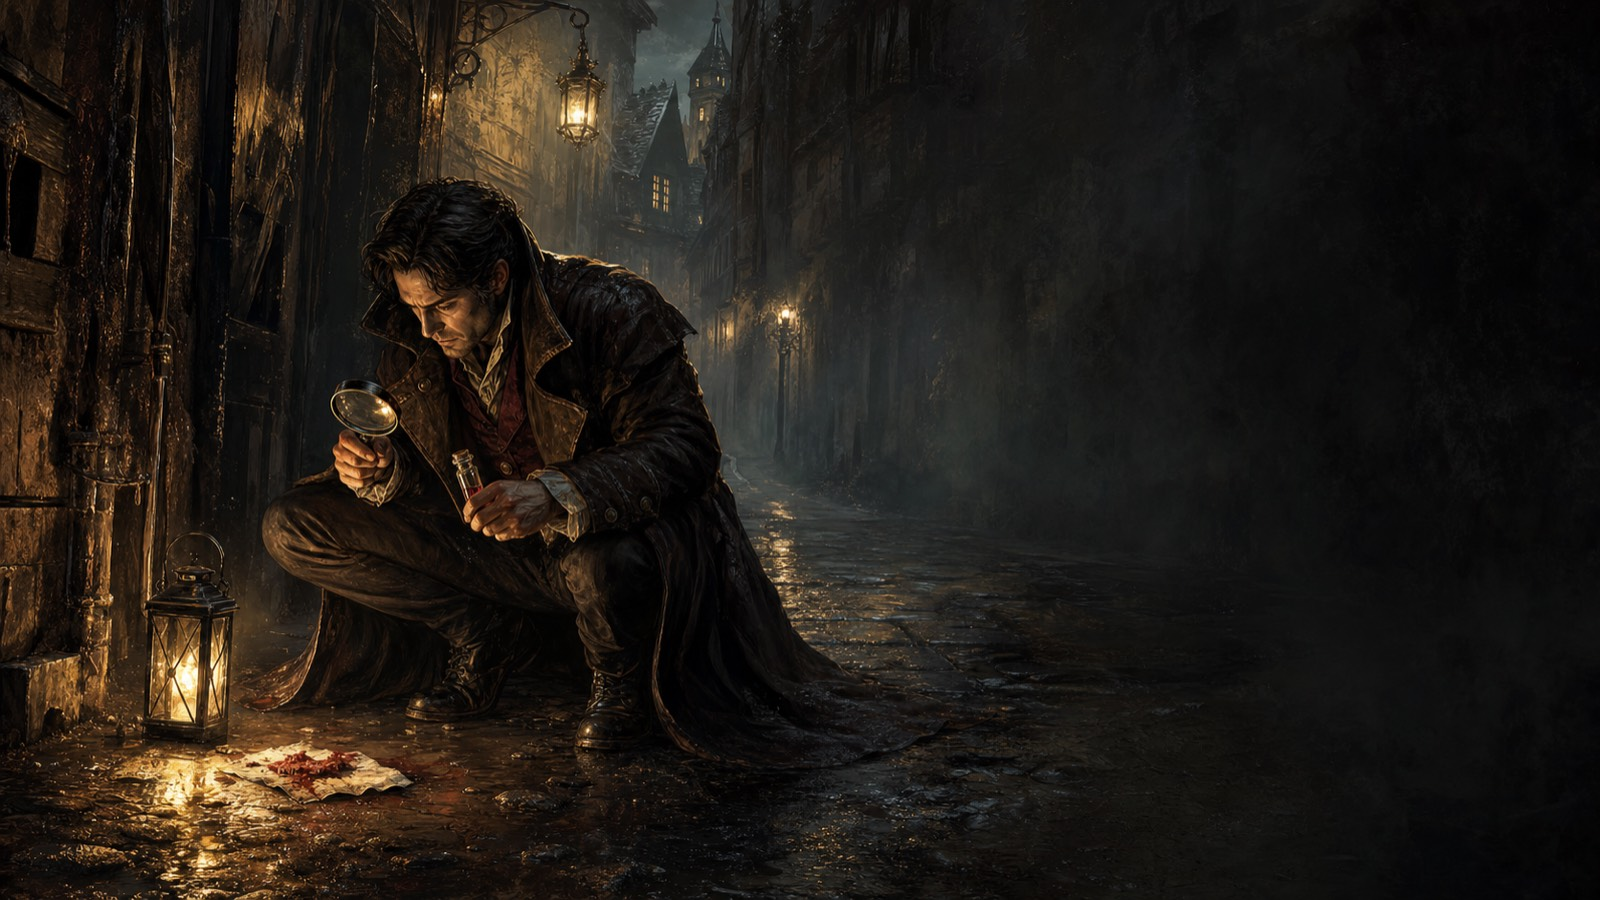
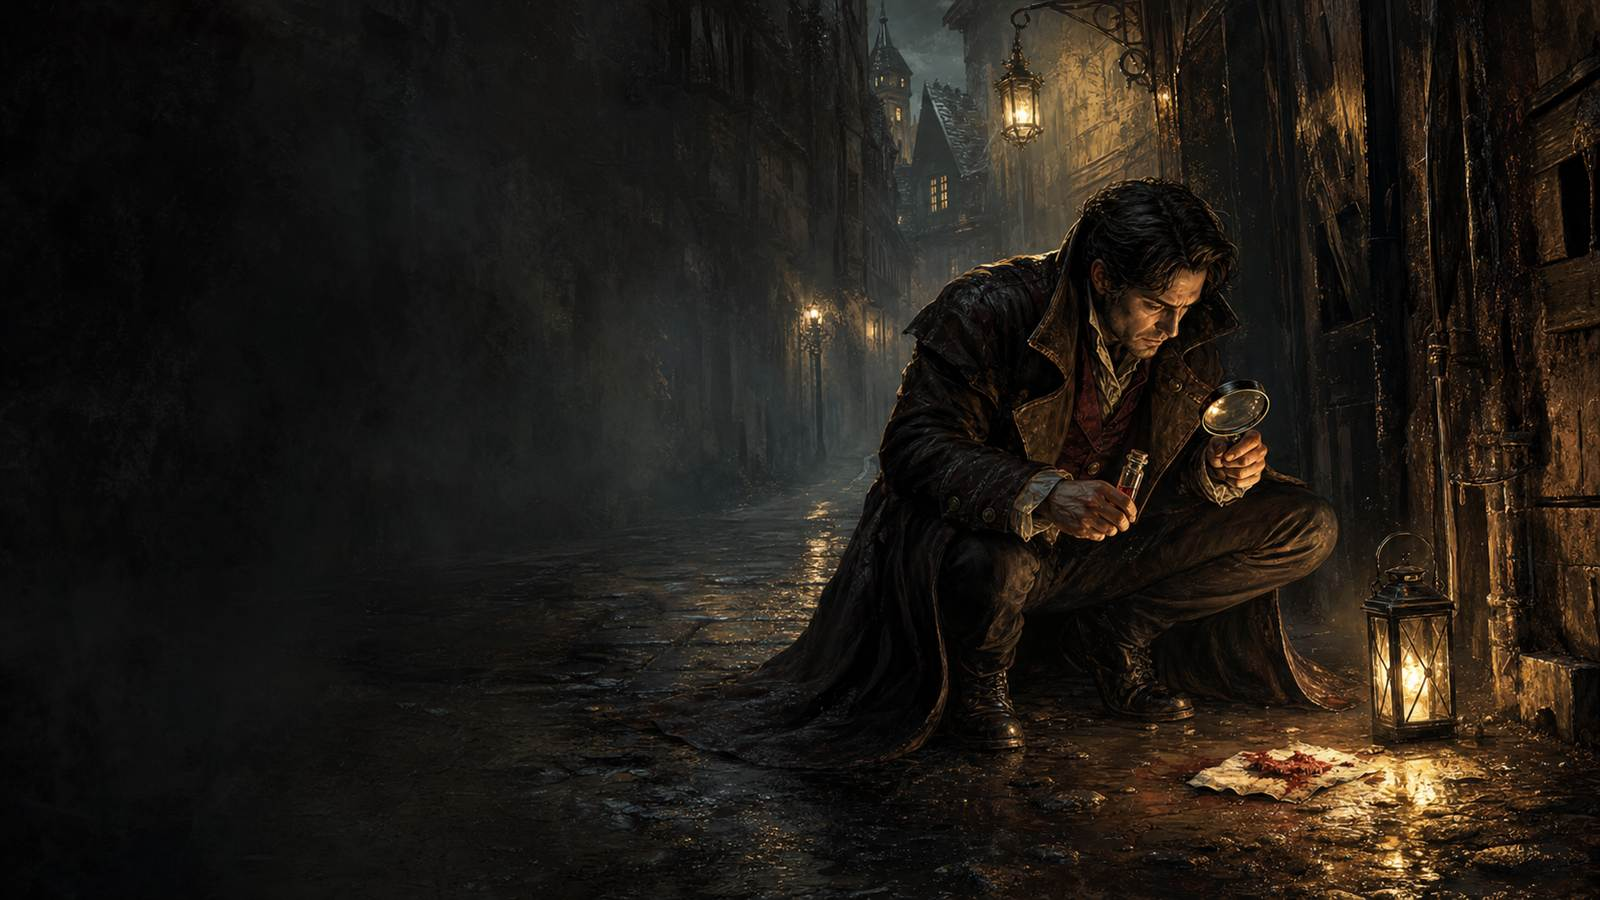
Mirror six more class bands: arcanist, hunter, investigator, magus, medium, wizard
Same reason as sorcerer/paladin/slayer -- each put its subject on the LEFT,
directly under the entry title. Flipping moves the figure right and opens
clean space for the heading. Nine class bands are now mirrored.

Mirrored from the version actually SHIPPED, which is not uniform: arcanist
ships v2, the other five v1. Mirroring the wrong version would silently swap
the image as well as flipping it.

Note on hunter: the orc silhouette moves into the left foreground where the
title sits. It reads fine because that mass is very dark, but it is the one
of the nine where the flip trades something away.

diff --git a/art/ART-MANIFEST.md b/art/ART-MANIFEST.md
@@ -150,10 +150,24 @@ image in Box not shipped; re-add it only if you want the cat gods back as an eas
 and the celestial/fiend/elemental/giant/chromatic/metallic subtypes — is now shipped and wired
 per Batch 3 above. `race-lizardfolk` has no *race* entry but does back the Lizardfolk **monster**.)
 
-### Mirrored 2026-08-12
-`class-sorcerer`, `class-paladin`, `class-slayer` are **horizontally mirrored** versions of their v1
-source — each originally put its subject on the LEFT, directly under the entry title. Flipping moves
-the figure right and opens clean space for the heading, matching the rest of the set.
+### Mirrored 2026-08-12 — 9 class bands
+**Horizontally mirrored** because each originally put its subject on the LEFT, directly under the
+entry title. Flipping moves the figure right and opens clean space for the heading.
+
+| key | source mirrored | result |
+|---|---|---|
+| class-sorcerer | v1 | caster right, dark calm left |
+| class-paladin | v1 | knight + white horse right, misty valley left |
+| class-slayer | v1 | hooded assassin right, moon + skyline left |
+| class-arcanist | **v2** | caster + spellbook right, dark left |
+| class-hunter | v1 | archer + saber-cat right (the orc silhouette moves to the left foreground — dark, so the title still reads) |
+| class-investigator | v1 | detective right, dark alley left — cleanest of the set |
+| class-magus | v1 | swordsman right, glowing blade sweeping into calm left |
+| class-medium | v1 | channeler + spirit right, dark left (was centered) |
+| class-wizard | v1 | wizard right, candlelit dark left |
+
+⚠ **Mirror from the version that is actually SHIPPED** — arcanist ships v2, the rest v1. Mirroring
+the wrong version silently swaps the image as well as flipping it.
 
 Re-derived from the Box PNG with `RotateNoneFlipX` **before** the resize, so they stay a single JPEG
 pass rather than a re-compress of the shipped file. Reproduce with `mirror-art.ps1`.
